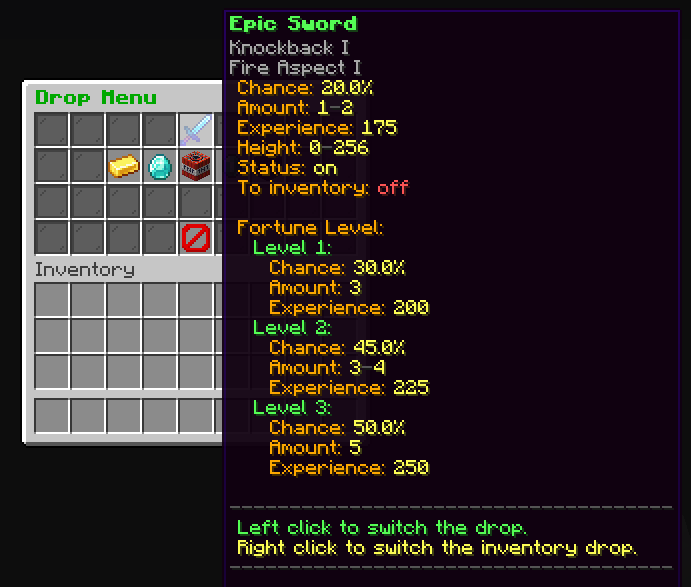
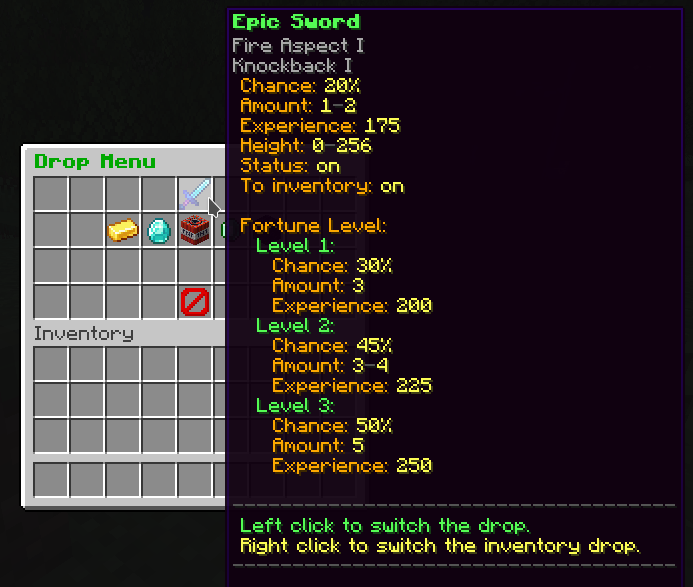
GH-30 Remove trailing zeros

Changed region(s): [[0.0304, 0.0, 1.0, 1.0]]

diff --git a/plugin/src/main/java/io/github/zrdzn/minecraft/lovelydrop/drop/DropItemParser.java b/plugin/src/main/java/io/github/zrdzn/minecraft/lovelydrop/drop/DropItemParser.java
@@ -15,6 +15,12 @@
  */
 package io.github.zrdzn.minecraft.lovelydrop.drop;
 
+import java.util.ArrayList;
+import java.util.HashMap;
+import java.util.List;
+import java.util.Map;
+import java.util.Map.Entry;
+import java.util.logging.Logger;
 import io.github.zrdzn.minecraft.lovelydrop.LovelyDropPlugin;
 import io.github.zrdzn.minecraft.lovelydrop.ParserHelper;
 import io.github.zrdzn.minecraft.spigot.EnchantmentMatcher;
@@ -22,13 +28,6 @@ import org.bukkit.configuration.ConfigurationSection;
 import org.bukkit.configuration.InvalidConfigurationException;
 import org.bukkit.enchantments.Enchantment;
 import org.bukkit.material.MaterialData;
-
-import java.util.ArrayList;
-import java.util.HashMap;
-import java.util.List;
-import java.util.Map;
-import java.util.Map.Entry;
-import java.util.logging.Logger;
 
 public class DropItemParser {
 
@@ -80,6 +79,10 @@ public class DropItemParser {
                 throw new InvalidConfigurationException("Key 'chance' cannot be 0 and lower.");
             }
 
+            String formattedChance = String.valueOf(chance);
+            // Remove trailing zeros from chance.
+            formattedChance = formattedChance.contains(".") ? formattedChance.replaceAll("0*$","").replaceAll("\\.$","") : formattedChance;
+
             String amountRaw = fortune.getString("amount");
             if (amountRaw == null) {
                 throw new InvalidConfigurationException("Key 'amount' is null.");
@@ -92,7 +95,7 @@ public class DropItemParser {
                 throw new InvalidConfigurationException("Key 'experience' cannot be lower than 0.");
             }
 
-            properties.put(level, new DropProperty(chance, amounts, experience));
+            properties.put(level, new DropProperty(chance, formattedChance, amounts, experience));
         }
 
         String heightRaw = section.getString("height");

diff --git a/plugin/src/main/java/io/github/zrdzn/minecraft/lovelydrop/menu/MenuService.java b/plugin/src/main/java/io/github/zrdzn/minecraft/lovelydrop/menu/MenuService.java
@@ -15,6 +15,12 @@
  */
 package io.github.zrdzn.minecraft.lovelydrop.menu;
 
+import java.util.List;
+import java.util.Map;
+import java.util.Map.Entry;
+import java.util.Optional;
+import java.util.logging.Logger;
+import java.util.stream.Collectors;
 import dev.triumphteam.gui.builder.item.ItemBuilder;
 import dev.triumphteam.gui.components.InteractionModifier;
 import dev.triumphteam.gui.guis.Gui;
@@ -28,13 +34,6 @@ import org.apache.commons.lang.StringUtils;
 import org.bukkit.entity.Player;
 import org.bukkit.event.inventory.ClickType;
 import org.bukkit.inventory.ItemStack;
-
-import java.util.List;
-import java.util.Map;
-import java.util.Map.Entry;
-import java.util.Optional;
-import java.util.logging.Logger;
-import java.util.stream.Collectors;
 
 public class MenuService {
 
@@ -130,7 +129,7 @@ public class MenuService {
                 for (int lineNumber = 0; lineNumber < lore.size(); lineNumber++) {
                     String line = StringUtils.replaceEach(lore.get(lineNumber),
                         new String[]{ String.format("{CHANCE-%d}", level), String.format("{EXPERIENCE-%d}", level) },
-                        new String[]{ String.valueOf(property.getChance()), String.valueOf(property.getExperience()) });
+                        new String[]{ property.getFormattedChance(), String.valueOf(property.getExperience()) });
 
                     String placeholder = String.format("{AMOUNT-%d}", level);
                     if (minimumAmount.equals(maximumAmount)) {

diff --git a/plugin/src/main/java/io/github/zrdzn/minecraft/lovelydrop/drop/DropProperty.java b/plugin/src/main/java/io/github/zrdzn/minecraft/lovelydrop/drop/DropProperty.java
@@ -20,17 +20,23 @@ import java.util.Map.Entry;
 public class DropProperty {
 
     private final double chance;
+    private final String formattedChance;
     private final Entry<Integer, Integer> amount;
     private final int experience;
 
-    public DropProperty(double chance, Entry<Integer, Integer> amount, int experience) {
+    public DropProperty(double chance, String formattedChance, Entry<Integer, Integer> amount, int experience) {
         this.chance = chance;
+        this.formattedChance = formattedChance;
         this.amount = amount;
         this.experience = experience;
     }
 
     public double getChance() {
         return this.chance;
+    }
+
+    public String getFormattedChance() {
+        return this.formattedChance;
     }
 
     public Entry<Integer, Integer> getAmount() {

diff --git a/README.md b/README.md
@@ -1,5 +1,5 @@
 # LovelyDrop
-[![Build Status](https://img.shields.io/github/workflow/status/zrdzn/LovelyDrop/LovelyDrop%20Build)](https://github.com/zrdzn/LovelyDrop/actions/workflows/build.yml)
+[![Build Status](https://img.shields.io/github/actions/workflow/status/zrdzn/LovelyDrop/build.yml?branch=master)](https://github.com/zrdzn/LovelyDrop/actions/workflows/build.yml)
 [![Release](https://img.shields.io/github/v/release/zrdzn/LovelyDrop?color=44CC44)](https://github.com/zrdzn/LovelyDrop/releases/latest)
 
 LovelyDrop is a Minecraft plugin that adds a drop system to a server. You can customize what items should be dropped by specifying various properties. Besides, the whole drop menu is also configurable, you can add items that should perform specific actions when clicked, and you can name them as you want.
@@ -46,7 +46,7 @@ The whole configuration of the plugin is explained in this
 | /ldp reload | lovelydrop.reload | reloads the whole plugin including configuration                                 |
 
 ## Requirements
-The plugin runs on the spigot servers and its forks. Minecraft versions above **1.8 up to 1.18.2** are fully supported by the plugin.
+The plugin runs on the spigot servers and its forks. Minecraft versions **1.8 up to 1.19.4** are fully supported by the plugin.
 
 ## How to download
 1. Read the [requirements](#requirements)
